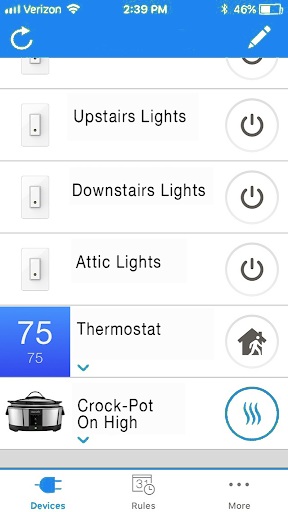
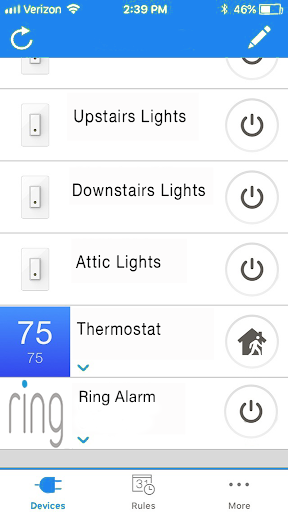
changed wemo picture to include ring alarm and added answers to database

Changed region(s): [[0.25, 0.75, 0.5312, 0.8438], [0.0, 0.7188, 0.2188, 0.875], [0.7812, 0.75, 0.9688, 0.875]]

diff --git a/IoTChallenges/Lesson2/index.html b/IoTChallenges/Lesson2/index.html
@@ -8,7 +8,38 @@
         document.getElementById('results').style.display = "block";
 		document.getElementById('header').style.display = "none";
 		document.getElementById('scenario').style.display = "none";
+		document.getElementById('options').style.display = "none";
         }
+		
+		function check(){
+			var answer;
+			if(up.checked){
+				answer = "up";
+			}
+			else if(down.checked){
+				answer = "down";
+			}
+			else if(attic.checked){
+				answer = "attic";
+			}
+			else if(therm.checked){
+				answer = "therm";
+			}
+			else if(ring.checked){
+				answer = "ring";
+			}
+			else{
+				answer = "none";
+			}
+			
+			var x = document.getElementsByClassName("scene")[0].id;
+			var xmlhttp = new XMLHttpRequest();
+				xmlhttp.onreadystatechange = function() {
+					document.getElementById("display-results").innerHTML = this.responseText;
+			};
+			xmlhttp.open("GET", "index.php?q=" + answer + '&x=' + x, true);
+			xmlhttp.send();
+		}
 </script>
 
 <title>IoT Lesson 2</title>
@@ -28,6 +59,7 @@
 		<p></p>
 	</div><hr>
 	<div id="options">
+		<input type="hidden" class="scene" id="250"/>
 		<input type="button" class="option" value="Check the Memo App on Your Phone" id="option2" onclick="show()" />
 	</div><hr>
 	<div id="results"  style="display:none;">
@@ -35,7 +67,7 @@
 		<p id="display-results">Which of these would be useful to switch on?</p>
 		  <input type="radio" id="up" name="devices">
 		  <label for="up">Upstairs Lights</label><br>
-		  <input type="radio" id="down" name="devices">
+		  <input type="radio" id="down" name="devices"\>
 		  <label for="down">Downstairs Lights</label><br>
 		  <input type="radio" id="attic" name="devices">
 		  <label for="attic">Attic Lights</label><br>
@@ -44,9 +76,7 @@
 		  <input type="radio" id="ring" name="devices">
 		  <label for="ring">Ring Alarm</label>
 		<div id="next-button">
-			<form action="index2.html">
-				<input type="submit" class="button" value="Check" />
-			</form>
+			<input type="submit" class="button" value="Check" onclick="check()" />
 		</div>
 	</div>
 </div>

diff --git a/IoTChallenges/Lesson2/index.php b/IoTChallenges/Lesson2/index.php
@@ -1,0 +1,49 @@
+<!DOCTYPE html>
+<html>
+<head>
+</head>
+<body>
+
+<?php
+$q = $_GET['q'];
+$x = $_GET['x'];
+console.log("q="+q+"and x="+x);
+$servername = "localhost";
+$username = "root";
+$password = "";
+$db = "CAE";
+$conn = new mysqli($servername, $username, $password, $db);
+
+// Check connection
+if ($conn->connect_error) {
+  die("Connection failed: " . $conn->connect_error);
+}
+
+$sql="SELECT * FROM test WHERE id = '".$x."' AND challenge = '".$q."'";
+$result = $conn->query($sql);
+
+/* echo "<table>
+<tr>
+<th>challengeindex</th>
+<th>answer</th>
+<th>response</th>
+</tr>"; */
+if ($result->num_rows > 0) {
+	while($row = $result->fetch_assoc()) {
+	  //echo "<tr>";
+	  //echo "<td>" . $row['challenge'] . "</td>";
+	  //echo "<td>" . $row['id'] . "</td>";
+	  echo "<td>" . $row['flag'] . "</td>";
+	  //echo "</tr>";
+	}
+}
+else {
+	//echo $q;
+	//echo $x;
+	echo "Incorrect! Try a different answer?";
+}
+//echo "</table>";
+$conn->close();
+?>
+</body>
+</html>
